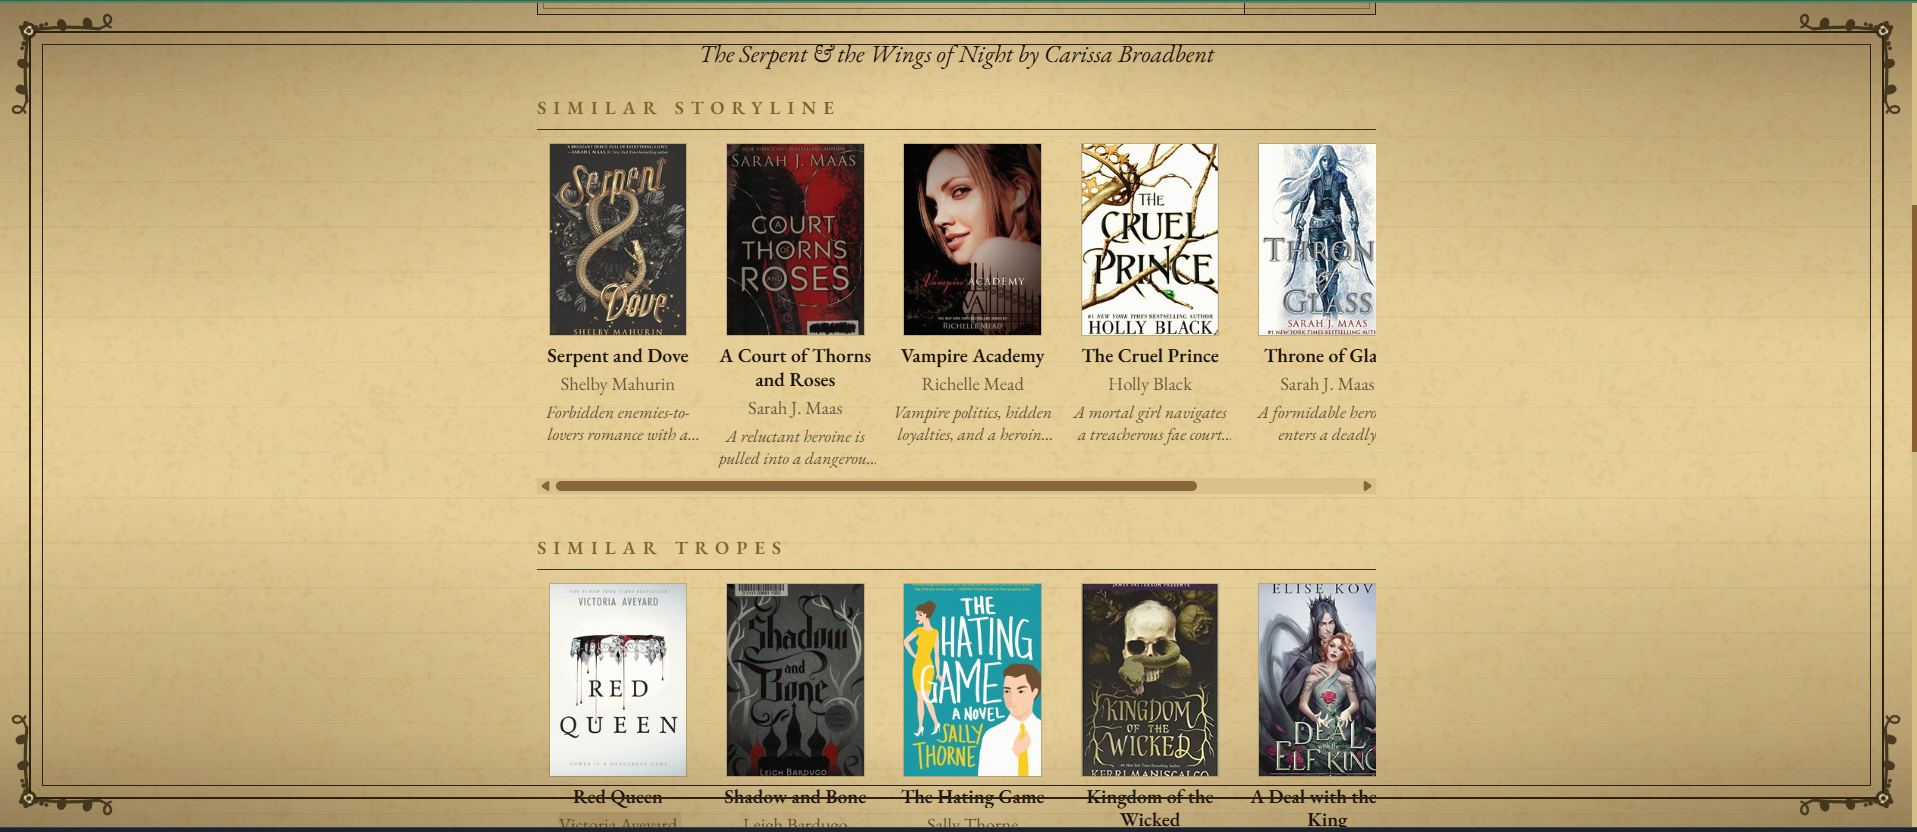
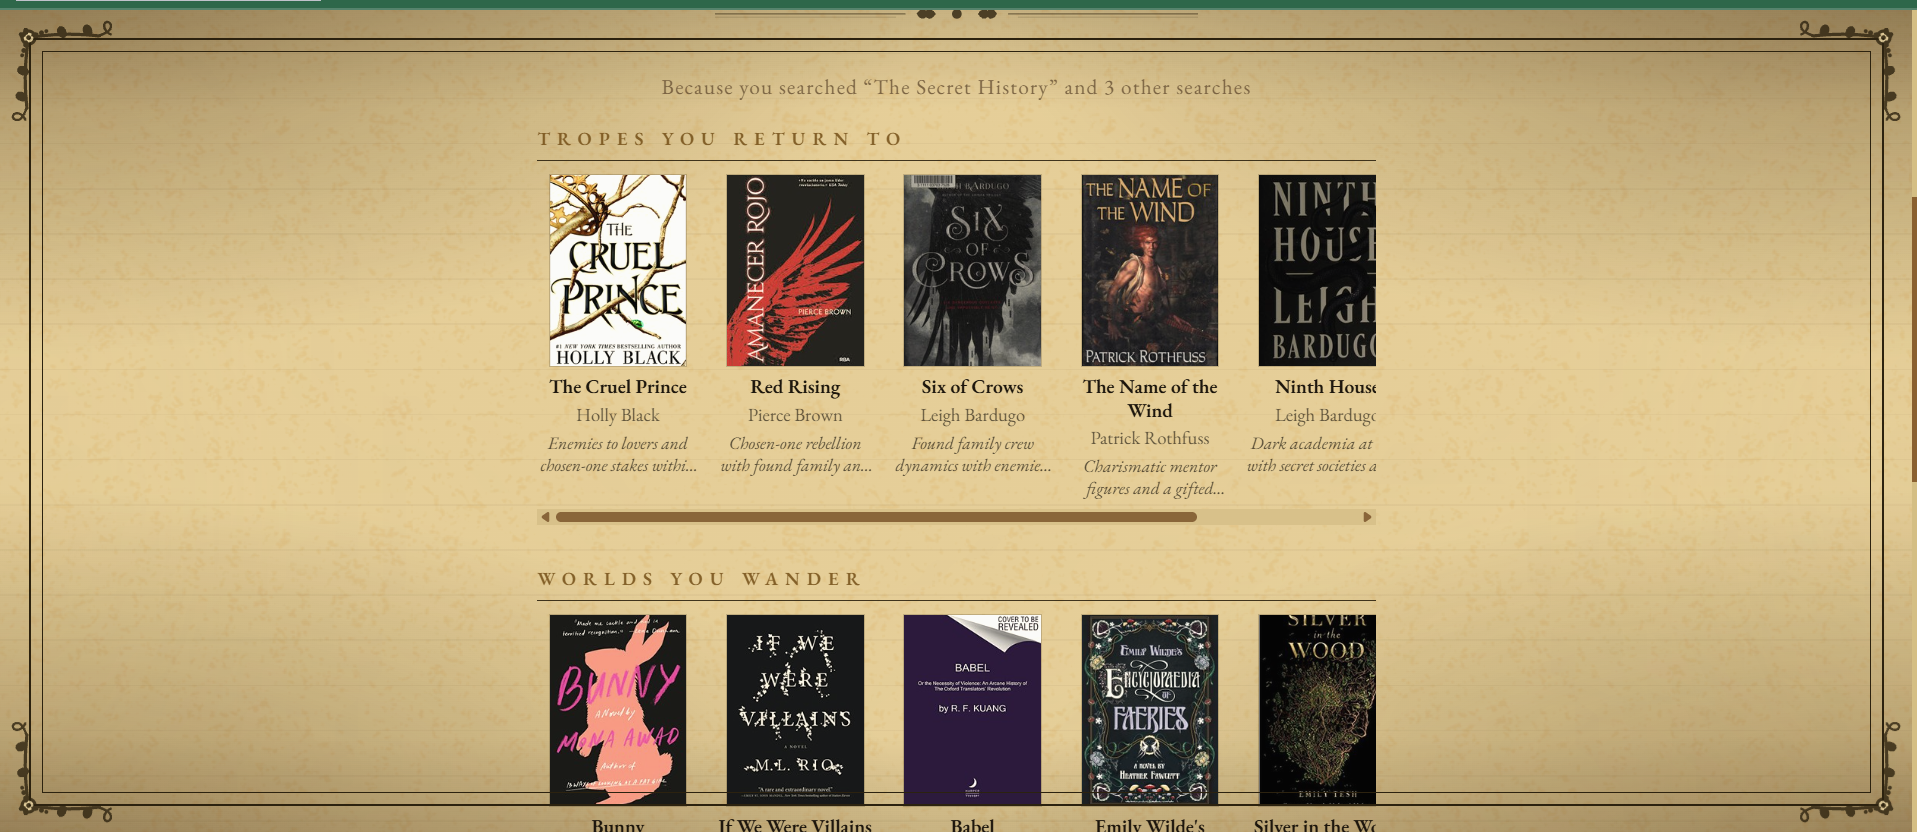
docs: update roadmap and screenshot for the DNA pipeline

diff --git a/README.md b/README.md
@@ -4,7 +4,7 @@
 
 BookDNA is a book recommendation web app with a Victorian manuscript aesthetic. Give it any book and it surfaces categorized recommendations by storyline, tropes, world, and vibe, drawn from the Open Library and analyzed by an AI that reads each book's DNA.
 
-![BookDNA recommendations by storyline and tropes](docs/screenshot.png)
+![BookDNA For You shelves built from your recurring tropes and worlds](docs/screenshot.png)
 
 ### The library
 ![BookDNA homepage](docs/home.png)
@@ -111,9 +111,9 @@ The app opens at **http://localhost:5173**.
 
 ## What I'd build next
 
-1. **Book detail pages and a literary fingerprint card:** click any recommendation to read its full description and reason, and see the searched book's DNA (tropes, setting, tone) displayed as a fingerprint.
-2. **Reading list:** bookmark books to a personal list. The session infrastructure is already in place.
-3. **Genre mood selector:** pick a reading mood (romantasy, sci-fi, thriller, horror) and have the UI retheme itself with a cinematic transition. The theme system and transition infrastructure are already in the codebase.
+1. **Normalized settings:** have Claude pick each book's world setting from a fixed list instead of writing free text, so For You can count settings across books the way it already counts tropes and subgenres.
+2. **Book detail panels:** click any recommendation to open a panel with its full description, its DNA, and the reason it was chosen.
+3. **Reading list:** bookmark books to a personal list. The session infrastructure is already in place.
 
 ---
 
